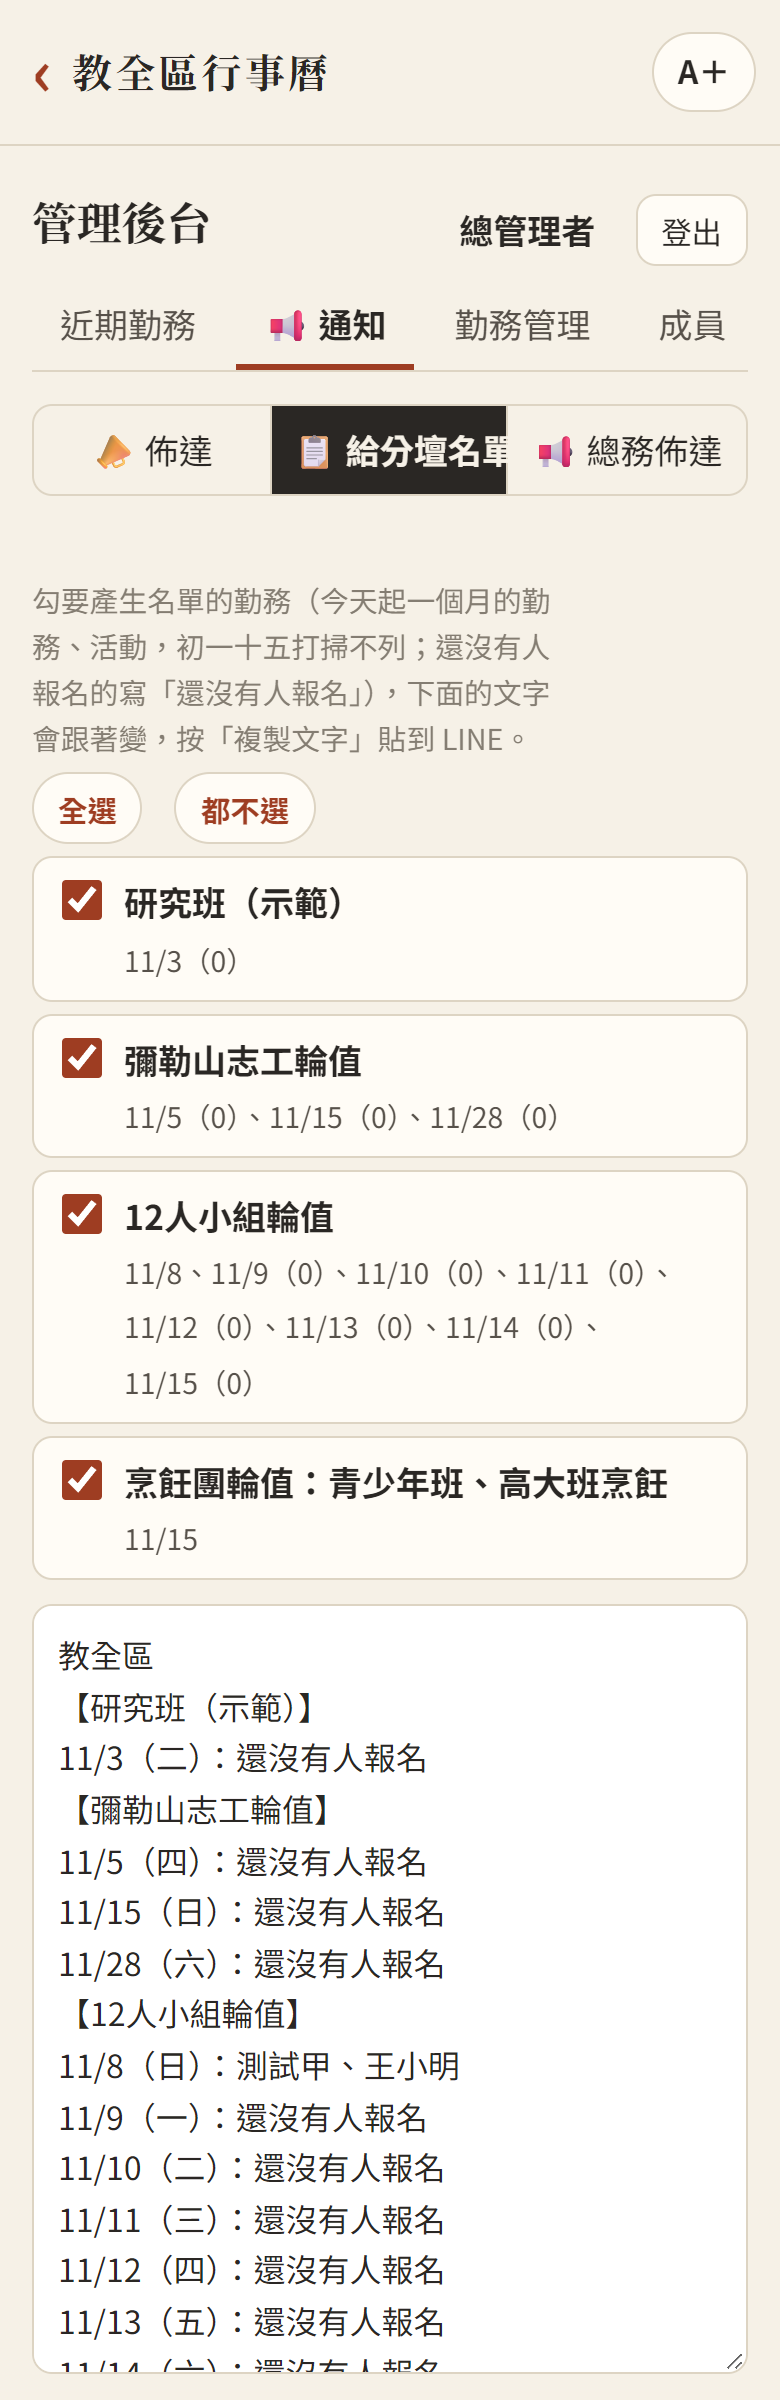
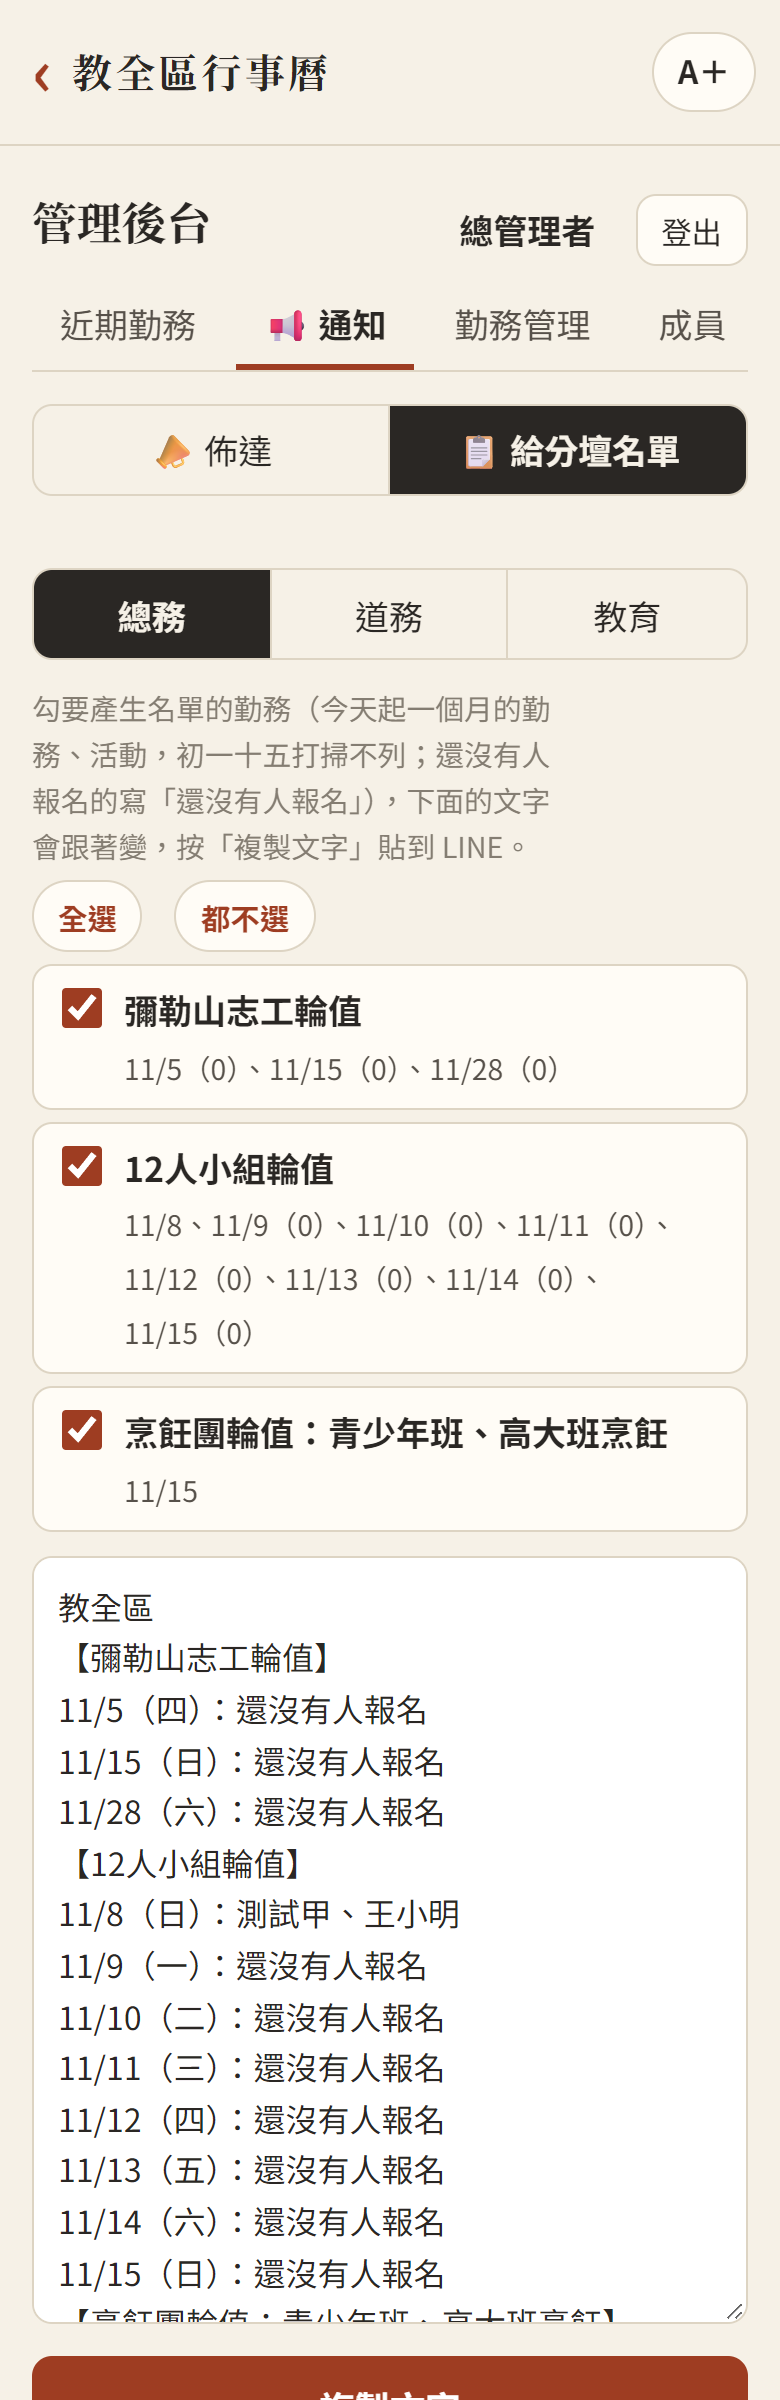
給分壇名單分總務／道務／教育

diff --git a/index.html b/index.html
@@ -19,7 +19,7 @@
   <link rel="preconnect" href="https://fonts.googleapis.com">
   <link rel="preconnect" href="https://fonts.gstatic.com" crossorigin>
   <link href="https://fonts.googleapis.com/css2?family=Noto+Sans+TC:wght@400;500;700&family=Noto+Serif+TC:wght@600;700&display=swap" rel="stylesheet">
-  <link rel="stylesheet" href="css/app.css?v=20261102k">
+  <link rel="stylesheet" href="css/app.css?v=20261102l">
   <script>try { var t = localStorage.getItem('duty-calendar:text-size'); if (t === 'l' || t === 'xl') document.documentElement.classList.add('text-' + t); } catch (e) {}</script>
 </head>
 <body class="splash-on">
@@ -111,56 +111,56 @@
   <script src="https://cdn.jsdelivr.net/npm/fullcalendar@6.1.21/index.global.min.js"></script>
   <script src="https://cdn.jsdelivr.net/npm/@fullcalendar/core@6.1.21/locales/zh-tw.global.min.js"></script>
   <!-- 改了 js、css 後把 ?v= 的日期換新，手機才不會用到舊的檔案（GitHub Pages 會快取 10 分鐘） -->
-  <script src="js/site.js?v=20261102k"></script>
-  <script src="js/config.js?v=20261102k"></script>
-  <script src="js/api.js?v=20261102k"></script>
-  <script src="js/format.js?v=20261102k"></script>
-  <script src="js/lunar-util.js?v=20261102k"></script>
-  <script src="js/date-list.js?v=20261102k"></script>
-  <script src="js/share.js?v=20261102k"></script>
-  <script src="js/addcal.js?v=20261102k"></script>
-  <script src="js/duty-cache.js?v=20261102k"></script>
-  <script src="js/calendar.js?v=20261102k"></script>
-  <script src="js/confirm.js?v=20261102k"></script>
-  <script src="js/reschedule.js?v=20261102k"></script>
-  <script src="js/signup.js?v=20261102k"></script>
-  <script src="js/duty-images.js?v=20261102k"></script>
-  <script src="js/roster-grid.js?v=20261102k"></script>
-  <script src="js/grid-page.js?v=20261102k"></script>
-  <script src="js/grid-image.js?v=20261102k"></script>
-  <script src="js/duty.js?v=20261102k"></script>
-  <script src="js/mine.js?v=20261102k"></script>
-  <script src="js/venue-hours.js?v=20261102k"></script>
-  <script src="js/venue.js?v=20261102k"></script>
-  <script src="js/push.js?v=20261102k"></script>
-  <script src="js/admin.js?v=20261102k"></script>
-  <script src="js/admin-pages.js?v=20261102k"></script>
-  <script src="js/draft-editor.js?v=20261102k"></script>
-  <script src="js/group-fair.js?v=20261102k"></script>
-  <script src="js/admin-duties.js?v=20261102k"></script>
-  <script src="js/admin-accounts.js?v=20261102k"></script>
-  <script src="js/import-parse.js?v=20261102k"></script>
-  <script src="js/admin-import.js?v=20261102k"></script>
-  <script src="js/admin-people.js?v=20261102k"></script>
-  <script src="js/stats-calc.js?v=20261102k"></script>
-  <script src="js/edu-stats.js?v=20261102k"></script>
-  <script src="js/admin-goals.js?v=20261102k"></script>
-  <script src="js/admin-venue.js?v=20261102k"></script>
-  <script src="js/admin-push.js?v=20261102k"></script>
-  <script src="js/tutorial.js?v=20261102k"></script>
-  <script src="js/help.js?v=20261102k"></script>
-  <script src="js/rollcall.js?v=20261102k"></script>
-  <script src="js/stats-export.js?v=20261102k"></script>
-  <script src="js/repair.js?v=20261102k"></script>
-  <script src="js/member-stats.js?v=20261102k"></script>
-  <script src="js/admin-stats.js?v=20261102k"></script>
-  <script src="js/admin-report.js?v=20261102k"></script>
-  <script src="js/admin-recent-signups.js?v=20261102k"></script>
-  <script src="js/admin-notice.js?v=20261102k"></script>
-  <script src="js/admin-notify.js?v=20261102k"></script>
-  <script src="js/history-parse.js?v=20261102k"></script>
-  <script src="js/admin-history.js?v=20261102k"></script>
-  <script src="js/easy-mode.js?v=20261102k"></script>
-  <script src="js/app.js?v=20261102k"></script>
+  <script src="js/site.js?v=20261102l"></script>
+  <script src="js/config.js?v=20261102l"></script>
+  <script src="js/api.js?v=20261102l"></script>
+  <script src="js/format.js?v=20261102l"></script>
+  <script src="js/lunar-util.js?v=20261102l"></script>
+  <script src="js/date-list.js?v=20261102l"></script>
+  <script src="js/share.js?v=20261102l"></script>
+  <script src="js/addcal.js?v=20261102l"></script>
+  <script src="js/duty-cache.js?v=20261102l"></script>
+  <script src="js/calendar.js?v=20261102l"></script>
+  <script src="js/confirm.js?v=20261102l"></script>
+  <script src="js/reschedule.js?v=20261102l"></script>
+  <script src="js/signup.js?v=20261102l"></script>
+  <script src="js/duty-images.js?v=20261102l"></script>
+  <script src="js/roster-grid.js?v=20261102l"></script>
+  <script src="js/grid-page.js?v=20261102l"></script>
+  <script src="js/grid-image.js?v=20261102l"></script>
+  <script src="js/duty.js?v=20261102l"></script>
+  <script src="js/mine.js?v=20261102l"></script>
+  <script src="js/venue-hours.js?v=20261102l"></script>
+  <script src="js/venue.js?v=20261102l"></script>
+  <script src="js/push.js?v=20261102l"></script>
+  <script src="js/admin.js?v=20261102l"></script>
+  <script src="js/admin-pages.js?v=20261102l"></script>
+  <script src="js/draft-editor.js?v=20261102l"></script>
+  <script src="js/group-fair.js?v=20261102l"></script>
+  <script src="js/admin-duties.js?v=20261102l"></script>
+  <script src="js/admin-accounts.js?v=20261102l"></script>
+  <script src="js/import-parse.js?v=20261102l"></script>
+  <script src="js/admin-import.js?v=20261102l"></script>
+  <script src="js/admin-people.js?v=20261102l"></script>
+  <script src="js/stats-calc.js?v=20261102l"></script>
+  <script src="js/edu-stats.js?v=20261102l"></script>
+  <script src="js/admin-goals.js?v=20261102l"></script>
+  <script src="js/admin-venue.js?v=20261102l"></script>
+  <script src="js/admin-push.js?v=20261102l"></script>
+  <script src="js/tutorial.js?v=20261102l"></script>
+  <script src="js/help.js?v=20261102l"></script>
+  <script src="js/rollcall.js?v=20261102l"></script>
+  <script src="js/stats-export.js?v=20261102l"></script>
+  <script src="js/repair.js?v=20261102l"></script>
+  <script src="js/member-stats.js?v=20261102l"></script>
+  <script src="js/admin-stats.js?v=20261102l"></script>
+  <script src="js/admin-report.js?v=20261102l"></script>
+  <script src="js/admin-recent-signups.js?v=20261102l"></script>
+  <script src="js/admin-notice.js?v=20261102l"></script>
+  <script src="js/admin-notify.js?v=20261102l"></script>
+  <script src="js/history-parse.js?v=20261102l"></script>
+  <script src="js/admin-history.js?v=20261102l"></script>
+  <script src="js/easy-mode.js?v=20261102l"></script>
+  <script src="js/app.js?v=20261102l"></script>
 </body>
 </html>

diff --git a/js/admin-pages.js b/js/admin-pages.js
@@ -143,10 +143,11 @@
   const ROSTER_SKIP = /初一十五打掃/;
 
   /** 把「每天的勤務」改成「每個勤務的日期」：同名的勤務合在一起，依第一次的日期排序 */
-  function byDuty(days) {
+  function byDuty(days, cat) {
     const map = new Map();
     days.forEach((d) => d.duties.forEach((x) => {
       if (ROSTER_SKIP.test(x.name)) return;
+      if (cat && (x.category || '勤務') !== cat) return; // 分總務／道務／教育（舊資料沒有類別的算總務）
       if (!map.has(x.name)) map.set(x.name, { name: x.name, dates: [] });
       map.get(x.name).dates.push({ date: d.date, names: x.names, notice: x.notice, group: x.group });
     }));
@@ -178,10 +179,32 @@
     show(cur);
   }
 
-  function renderRoster(body, data, stale) {
-    const duties = byDuty(data.days);
+  /** 給分壇名單：上面選總務／道務／教育（總管理者三類都能選、和佈達記同一個；類別帳號只有自己的類別） */
+  function renderRoster(box, data, stale) {
+    const cats = InviteBoard.catsFor(Api.adminWho().role);
+    const CAT_KEY = 'duty-calendar:notify-cat';
+    let cat = cats[0][0];
+    try { const saved = localStorage.getItem(CAT_KEY); if (cats.some((c) => c[0] === saved)) cat = saved; } catch (e) { /* 用預設 */ }
+    const keep = box.querySelector('[data-roster-body]');
+    box.innerHTML = `
+      ${AdminPage.staleNote(stale)}
+      ${cats.length > 1 ? `<div class="seg notify-cat" role="radiogroup" aria-label="哪一類的名單">${cats.map(([v, label]) => `<label class="seg-item"><input type="radio" name="rosterCat" value="${v}"${v === cat ? ' checked' : ''}><span>${label}</span></label>`).join('')}</div>` : ''}
+      <div data-roster-body></div>`;
+    if (keep) box.querySelector('[data-roster-body]').replaceWith(keep); // 自動更新時保留勾選
+    box.querySelectorAll('input[name="rosterCat"]').forEach((r) => r.addEventListener('change', () => {
+      cat = r.value;
+      try { localStorage.setItem(CAT_KEY, cat); } catch (e) { /* 不記住也沒關係 */ }
+      const fresh = box.querySelector('[data-roster-body]').cloneNode(false);
+      box.querySelector('[data-roster-body]').replaceWith(fresh);
+      paintRoster(fresh, data, cat);
+    }));
+    paintRoster(box.querySelector('[data-roster-body]'), data, cat);
+  }
+
+  function paintRoster(body, data, cat) {
+    const duties = byDuty(data.days, cat);
     if (!duties.length) {
-      body.innerHTML = `${AdminPage.staleNote(stale)}<p class="panel-empty">今天起一個月沒有勤務或活動。</p>`;
+      body.innerHTML = '<p class="panel-empty">今天起一個月沒有這一類的勤務或活動。</p>';
       return;
     }
     const tomorrow = Fmt.addDays(data.today, 1);
@@ -189,7 +212,6 @@
     const first = !body.querySelector('[data-roster-duty]');
     const dateTag = (x) => esc(Fmt.shortDate(x.date).replace(/（.）$/, '')) + (x.notice || x.names.length ? '' : '（0）');
     body.innerHTML = `
-      ${AdminPage.staleNote(stale)}
       <p class="hint">勾要產生名單的勤務（今天起一個月的勤務、活動，初一十五打掃不列；還沒有人報名的寫「還沒有人報名」），下面的文字會跟著變，按「複製文字」貼到 LINE。</p>
       <div class="roster-quick"><button type="button" class="link-btn" data-all>全選</button><button type="button" class="link-btn" data-none>都不選</button></div>
       <div class="roster-dates">${duties.map((g, i) => {

diff --git a/docs/spec.md b/docs/spec.md
@@ -319,7 +319,7 @@
 - **初一十五打掃的通知與佈達附註（2026/11/2）**：複製通知遇到初一十五打掃（名稱含「初一十五打掃」），名稱依那天農曆換成「初一打掃」或「十五打掃」，只寫日期、時段、地點、負責組、組長，不寫需要人數、目前報名、報名網址；其他勤務照舊。總務佈達多一格「每次都要加在最後的話」（例：母殿報到提醒、聯絡人），存在這支手機（localStorage duty-calendar:notice-tail，不進程式，裡面可能有電話），每次佈達自動加在最後。
 - **打掃組叫召集人（2026/11/2）**：負責組的帶頭人，打掃組一律稱「召集人」，其他分組稱「組長」（Fmt.leaderWord）：複製通知、勤務頁本次輪值、公告型卡片、後台勤務名單、分組列表都照這個寫。
 - **職司表存成圖片（2026/11/2）**：大張職司表下面「🖼 職司表存成圖片（傳到 LINE）」、後台「📢 通知」邀請報名勾到職司表勤務時也有同樣按鈕：用 canvas 畫整張職司表（標題、日期地點、日期列、人數列、每個了愿項目的名字，★ 組長，有填最多的空格寫「—」，腳註截至時間），手機用系統分享（可選 LINE），電腦複製圖片到剪貼簿，不支援就下載（js/grid-image.js）。
-- **佈達分類別、不限一個月、併入總務佈達（2026/11/2）**：「📢 通知」只剩「📣 佈達」「📋 給分壇名單」。佈達上面選「總務／道務／教育」（總管理者三類都能選，記住上次選的；類別帳號只有自己的類別），列出今天起一年（366 天）內該類的項目（依日期排，先列 30 筆，「往下看更多」），總務標還缺幾位或人數已夠，公告型標公告；總務不列初一十五打掃，改在最上面「📢 初一十五總務佈達」（點開才讀，GeneralNotice.mount；總管理者、勤務帳號）。公告型的複製通知不寫需要人數。js/admin-notify.js listRows。
+- **佈達分類別、不限一個月、併入總務佈達（2026/11/2）**：「📢 通知」只剩「📣 佈達」「📋 給分壇名單」。佈達上面選「總務／道務／教育」（總管理者三類都能選，記住上次選的；類別帳號只有自己的類別），列出今天起一年（366 天）內該類的項目（依日期排，先列 30 筆，「往下看更多」），總務標還缺幾位或人數已夠，公告型標公告；總務不列初一十五打掃，改在最上面「📢 初一十五總務佈達」（點開才讀，GeneralNotice.mount；總管理者、勤務帳號）。公告型的複製通知不寫需要人數。js/admin-notify.js listRows。給分壇名單也一樣先選總務／道務／教育（和佈達記同一個選擇，byDuty 依類別過濾）。
 
 ## 9. Google Sheet 資料表
 
